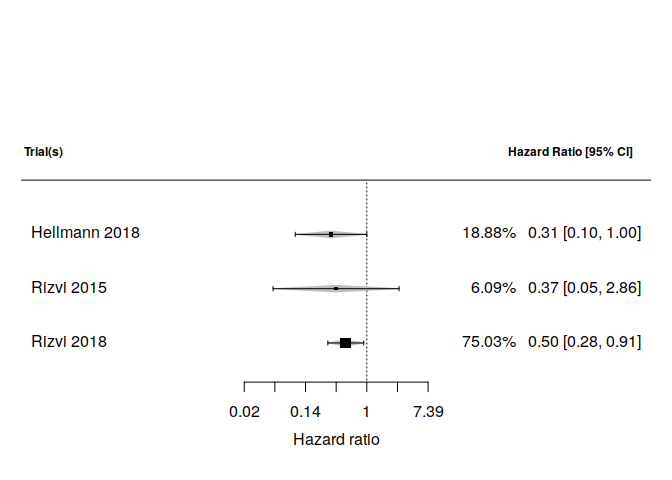
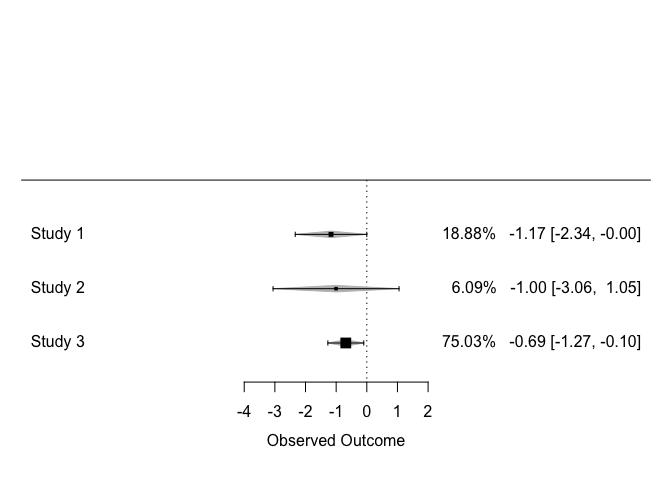
👌 IMPROVE: add more example

diff --git a/README.md b/README.md
@@ -30,7 +30,8 @@ remotes::install_github("ShixiangWang/metawho")
 
 This is a basic example which shows you how to solve a common problem.
 
-Load example data.
+If you have HR and confidence intervals, please run `deft_prepare()`
+firstly.
 
 ``` r
 library(metawho)
@@ -38,6 +39,55 @@ library(metawho)
 #> Loading required package: Matrix
 #> Loading 'metafor' package (version 2.0-0). For an overview 
 #> and introduction to the package please type: help(metafor).
+
+### specify hazard ratios (hr)
+hr    <- c(0.30, 0.11, 1.25, 0.63, 0.90, 0.28)
+### specify lower bound for hr confidence intervals
+ci.lb <- c(0.09, 0.02, 0.82, 0.42, 0.41, 0.12)
+### specify upper bound for hr confidence intervals
+ci.ub <- c(1.00, 0.56, 1.90, 0.95, 1.99, 0.67)
+### trials
+trial <- c("Rizvi 2015", "Rizvi 2015",
+          "Rizvi 2018", "Rizvi 2018",
+          "Hellmann 2018", "Hellmann 2018")
+### subgroups
+subgroup = rep(c("Male", "Female"), 3)
+
+entry <- paste(trial, subgroup, sep = "-")
+### combine as data.frame
+
+wang2019 =
+   data.frame(
+        entry = entry,
+        trial = trial,
+        subgroup = subgroup,
+        hr = hr,
+        ci.lb = ci.lb,
+        ci.ub = ci.ub,
+        stringsAsFactors = FALSE
+       )
+
+deft_prepare(wang2019)
+#>                  entry         trial subgroup   hr ci.lb ci.ub   conf_q
+#> 1      Rizvi 2015-Male    Rizvi 2015     Male 0.30  0.09  1.00 1.959964
+#> 2    Rizvi 2015-Female    Rizvi 2015   Female 0.11  0.02  0.56 1.959964
+#> 3      Rizvi 2018-Male    Rizvi 2018     Male 1.25  0.82  1.90 1.959964
+#> 4    Rizvi 2018-Female    Rizvi 2018   Female 0.63  0.42  0.95 1.959964
+#> 5   Hellmann 2018-Male Hellmann 2018     Male 0.90  0.41  1.99 1.959964
+#> 6 Hellmann 2018-Female Hellmann 2018   Female 0.28  0.12  0.67 1.959964
+#>           yi       sei
+#> 1 -1.2039728 0.6142831
+#> 2 -2.2072749 0.8500678
+#> 3  0.2231436 0.2143674
+#> 4 -0.4620355 0.2082200
+#> 5 -0.1053605 0.4030005
+#> 6 -1.2729657 0.4387290
+```
+
+Here we load example data.
+
+``` r
+library(metawho)
 data("wang2019")
 
 wang2019
@@ -134,13 +184,14 @@ Use `deft_do()` function to obtain model results.
 #> [1] "deft"
 ```
 
-Plot the results with `forest()` function from **metafor** package.
+Plot the model results with `forest()` function from **metafor**
+package.
 
 ``` r
 forest(res$subgroup$model, showweights = TRUE)
 ```
 
-<img src="man/figures/README-unnamed-chunk-2-1.png" width="100%" />
+<img src="man/figures/README-unnamed-chunk-3-1.png" width="100%" />
 
 Modify plot, more see `?forest.rma`.
 
@@ -154,7 +205,7 @@ text(-11.5, 4.5, "Trial(s)", pos = 4)
 text(9, 4.5, "Hazard Ratio [95% CI]", pos = 2)
 ```
 
-<img src="man/figures/README-unnamed-chunk-3-1.png" width="100%" />
+<img src="man/figures/README-unnamed-chunk-4-1.png" width="100%" />
 
 ``` r
 par(op)
